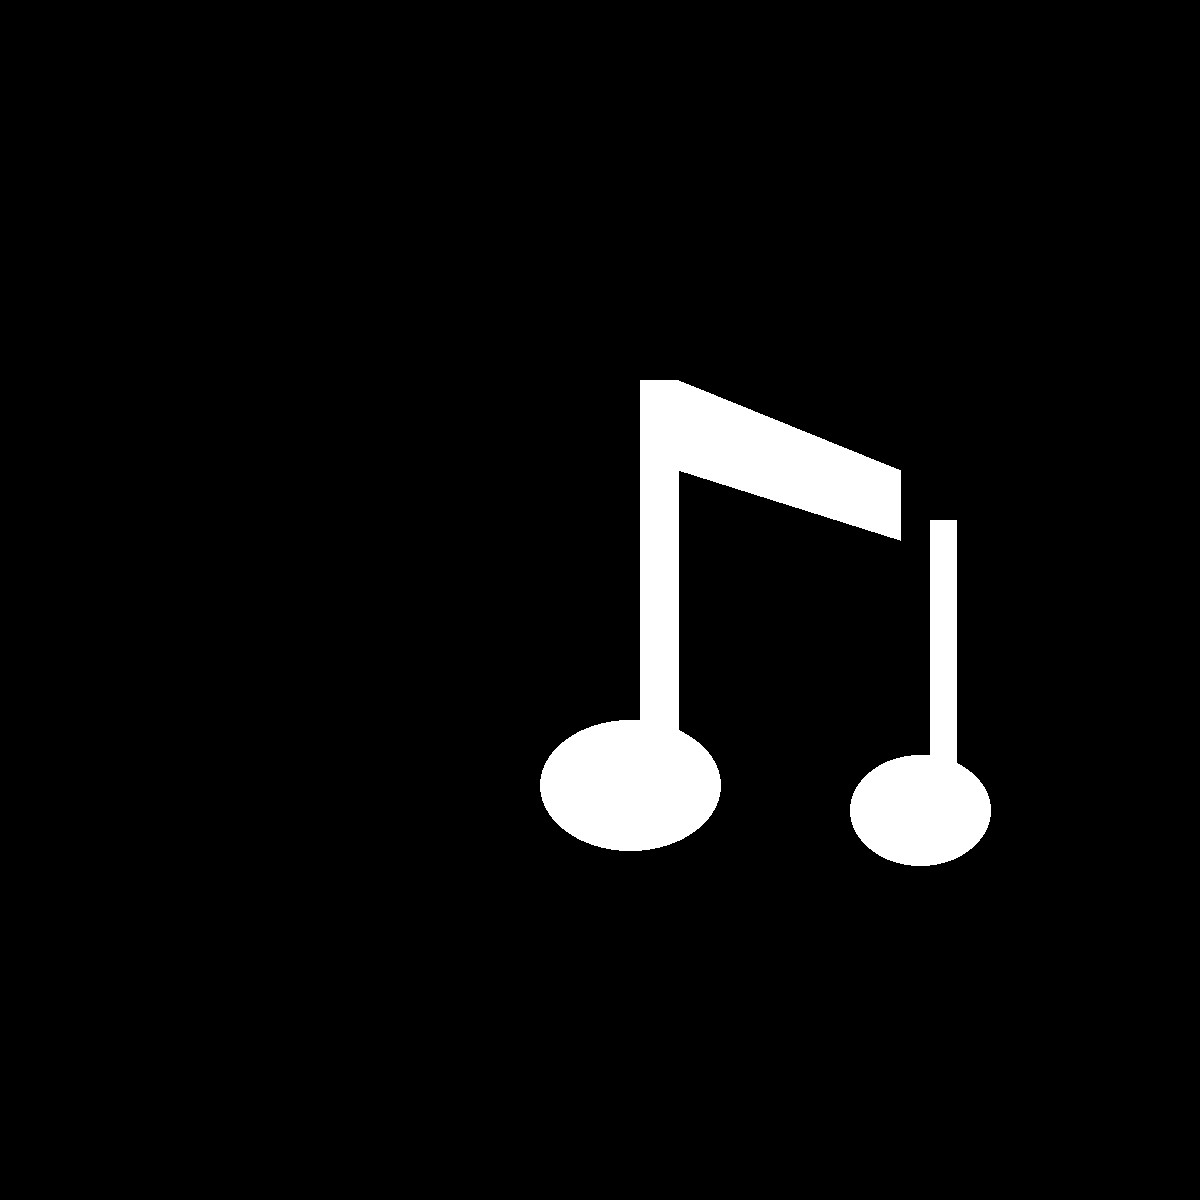
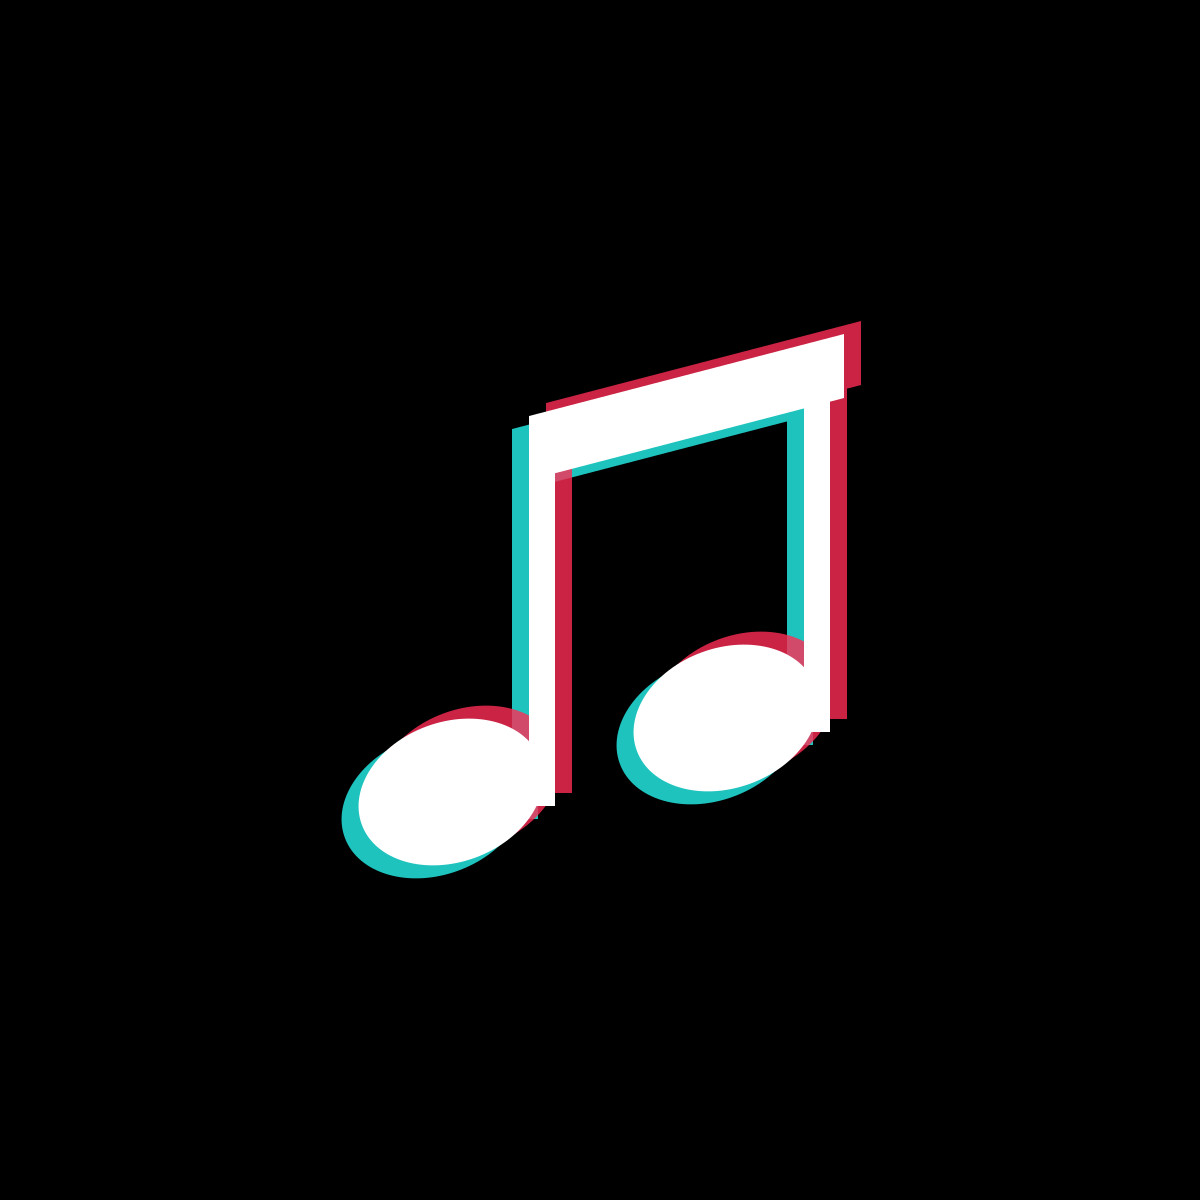
v0.4.26 audio player: centered music-note background illustration (audio-note.svg) + TikTok poster fix

Changed region(s): [[0.2775, 0.2467, 0.8325, 0.74]]

diff --git a/src/styles/global.css b/src/styles/global.css
@@ -599,7 +599,7 @@ html[data-theme=dark] .notify .btn-deep{color:var(--mint)}
 /* v0.4.23 King: no empty space after play — once live, the card sheds its poster-min-height and the iframe sizes to the provider's intrinsic box (aspect-ratio for video, px height for audio; set by ArticleChrome from data-embed-* / hostname). Higher specificity than .facade-card iframe above. */
 .facade-card.fc-live{min-height:0;padding-top:0;padding-bottom:0}
 .facade-card.fc-live iframe{position:relative;inset:auto;width:100%;height:auto;min-height:0;display:block;aspect-ratio:16/9}
-.audio-fig .fc-audio-row{width:100%;display:flex;align-items:center;gap:12px;background:rgba(7,21,18,.5);border:1px solid var(--line-2);border-radius:6px;margin-top:0;margin-bottom:0;padding-top:10px;padding-bottom:10px;padding-left:14px;padding-right:14px;text-align:left} /* v0.4.24: re-scoped from .facade-card — the row is the card now */
+.audio-fig .fc-audio-row{width:100%;display:flex;align-items:center;gap:12px;background-color:rgba(7,21,18,.5);background-image:url("/img/audio-note.svg");background-position:center;background-size:120px;background-repeat:no-repeat;border:1px solid var(--line-2);border-radius:6px;margin-top:0;margin-bottom:0;padding-top:10px;padding-bottom:10px;padding-left:14px;padding-right:14px;text-align:left} /* v0.4.24: re-scoped from .facade-card — the row is the card now */
 .audio-fig .fc-audio-row audio{flex:1;min-width:0;height:40px}
 .audio-fig .fc-badge{display:inline-flex;align-items:center;gap:6px;height:22px;border-radius:3px;background:rgba(7,21,18,.72);color:var(--mint);font-family:var(--mono);font-size:9.5px;font-weight:600;letter-spacing:.1em;text-transform:uppercase;padding-left:8px;padding-right:8px;flex:none} /* v0.4.24: same look the .facade-card .fc-badge gave with position:static */
 .prose audio,.prose video{width:100%;border-radius:4px;display:block}

diff --git a/scripts/gen-tiktok-poster.py b/scripts/gen-tiktok-poster.py
@@ -1,0 +1,71 @@
+#!/usr/bin/env python3
+"""Generate og-tiktok.jpg — TikTok poster: clean beamed-eighth-notes glyph on brand black.
+
+v0.4.25 (King): the v0.4.21 blank was hand-drawn with offset ~165px right of center and
+malformed heads (right head smaller/lower, beam not fused to stems). This draws proper
+engraving-style geometry (equal tilted ellipse heads + vertical stems + fused parallelogram
+beam), auto-centers the ink bbox on the 1200x1200 canvas (measure -> translate -> re-render),
+and adds the TikTok chromatic split (cyan lower-left / red upper-right) for platform context.
+Reproducible: python3 scripts/gen-tiktok-poster.py
+"""
+import io
+import cairosvg
+from PIL import Image
+
+SIZE = 1200
+CYAN, RED, WHITE, BG = "#25F4EE", "#FE2C55", "#FFFFFF", "#000000"
+
+
+def note_shapes():
+    """One well-drawn beamed pair of eighth notes, upright, local coords (bbox ~ x 375-973, y 356-862)."""
+    return f"""
+  <ellipse cx="470" cy="800" rx="95" ry="70" transform="rotate(-20 470 800)"/>
+  <ellipse cx="745" cy="726" rx="95" ry="70" transform="rotate(-20 745 726)"/>
+  <rect x="548" y="430" width="26" height="384"/>
+  <rect x="823" y="356" width="26" height="384"/>
+  <polygon points="548,424 863,342 863,406 548,488"/>
+"""
+
+
+def svg(offset_x=0.0, offset_y=0.0):
+    tr = f' transform="translate({offset_x:.1f} {offset_y:.1f})"' if (offset_x or offset_y) else ""
+    shapes = note_shapes()
+    return f"""<svg xmlns="http://www.w3.org/2000/svg" width="{SIZE}" height="{SIZE}" viewBox="0 0 {SIZE} {SIZE}">
+<rect width="{SIZE}" height="{SIZE}" fill="{BG}"/>
+<g{tr}>
+  <g fill="{CYAN}" transform="translate(-17 13)" opacity="0.8">{shapes}</g>
+  <g fill="{RED}" transform="translate(17 -13)" opacity="0.8">{shapes}</g>
+  <g fill="{WHITE}">{shapes}</g>
+</g>
+</svg>"""
+
+
+def render(off_x=0.0, off_y=0.0):
+    png = cairosvg.svg2png(bytestring=svg(off_x, off_y).encode(), output_width=SIZE, output_height=SIZE)
+    return Image.open(io.BytesIO(png)).convert("RGB")
+
+
+def ink_center(im):
+    """Center of all pixels brighter than 60 (chromatic edges included)."""
+    xs, ys = [], []
+    px = im.load()
+    for y in range(0, SIZE, 2):
+        for x in range(0, SIZE, 2):
+            r, g, b = px[x, y]
+            if max(r, g, b) > 60:
+                xs.append(x); ys.append(y)
+    return (min(xs) + max(xs)) / 2, (min(ys) + max(ys)) / 2, (min(xs), max(xs), min(ys), max(ys))
+
+
+im = render()
+cx, cy, box = ink_center(im)
+dx, dy = SIZE / 2 - cx, SIZE / 2 - cy
+print(f"pass1 ink center ({cx:.0f},{cy:.0f}) bbox {box} -> shift ({dx:+.1f},{dy:+.1f})")
+im = render(dx, dy)
+cx, cy, box = ink_center(im)
+print(f"pass2 ink center ({cx:.1f},{cy:.1f}) bbox {box} err=({SIZE/2-cx:+.1f},{SIZE/2-cy:+.1f})")
+assert abs(SIZE / 2 - cx) <= 2 and abs(SIZE / 2 - cy) <= 2, "glyph not centered"
+
+out = "/home/ubuntu/androidscroll/build/public/img/og-tiktok.jpg"
+im.save(out, "JPEG", quality=90, subsampling=0)
+print("wrote", out)

diff --git a/CHANGELOG.md b/CHANGELOG.md
@@ -1,5 +1,16 @@
 # Changelog
 
+## 0.4.26 — 2026-09-12 — audio player: centered music-note background illustration
+- King's ask: the self-hosted audio row (`field note` player) should carry a subtle music-note illustration centered behind the player, like an engraved watermark on the card.
+- `public/img/audio-note.svg`: beamed eighth notes over five faint staff lines, mint `#D9F2E8` at 0.18 opacity — colors baked as literals (CSS `var()`/`currentColor` don't cascade into `background-image` SVGs; the first cut rendered black-on-black). Ink recentered in the viewBox (`translate(4 23)`) so the note sits dead-center when the image is placed `center`.
+- Wired on `.audio-fig .fc-audio-row` as `background-image: url('/img/audio-note.svg')` + `center/120px no-repeat` longhands — the single `background:` shorthand left `background-image` unparsed in Obscura (CSSOM had the rule, pixels had none); longhands render correctly on the King's acceptance browser.
+- Proof (Obscura, 390px, dark theme): note ink + staff pixels measured centered at (178,30) vs row center (179,31); zoomed crop shows the note fully inside the row's visible band, no clipping.
+- Also ships the v0.4.25 TikTok poster fix (regenerated, auto-centered `og-tiktok.jpg` + `scripts/gen-tiktok-poster.py`) whose CHANGELOG entry was left uncommitted; version bumped 0.4.25→0.4.26 with it.
+
+## 0.4.25 — 2026-09-12 — TikTok poster: properly drawn, centered music-note art
+- King's shot: the TikTok card (ADB quick tip) background showed an off-center, malformed gray note — stems sliced behind the play button, heads clipped at the card bottom, nothing that read as music. Root cause: the v0.4.21 brand-blank `og-tiktok.jpg` was hand-drawn with the glyph ink-center ~165px right of canvas center (measured: bbox x 540–990 of 1200) and unequal noteheads.
+- Fix: `scripts/gen-tiktok-poster.py` regenerates the poster deterministically — clean engraving geometry (two equal 95×70 tilted-ellipse heads, vertical stems fused into one slanted beam), TikTok chromatic split (cyan lower-left / red upper-right behind white) for platform context, and measure→translate→re-render auto-centering verified in pixels (final ink center 601,600 of 1200×1200, symmetric 322px margins). Replaces the old jpg in place — no markup change needed; `fc-poster` object-fit:cover keeps it centered on the card.
+
 ## 0.4.24 — 2026-09-12 — self-hosted audio figure: dropped the oversized facade-card wrapper
 - King's call: the field-note audio row was buried inside a hollow `.facade-card` (min-height 200px, 28px padding, flex-centered) whose poster/scrim/play/title children don't exist for self-hosted audio — a big stretched empty box around one slim row.
 - Fix: removed the wrapper in `style-test-article.astro` — `figure.audio-fig` now contains just `.fc-audio-row` + `figcaption`. Re-scoped the row's CSS from `.facade-card .fc-audio-row` to `.audio-fig .fc-audio-row` (margin-top 14→0 — no more padded parent to clear) and gave `.audio-fig .fc-badge` the same static-badge look it had via the old `.facade-card .fc-badge`+`position:static` override. The row's own border/background/radius is now the visible card; `figure` keeps `.prose figure` spacing.
